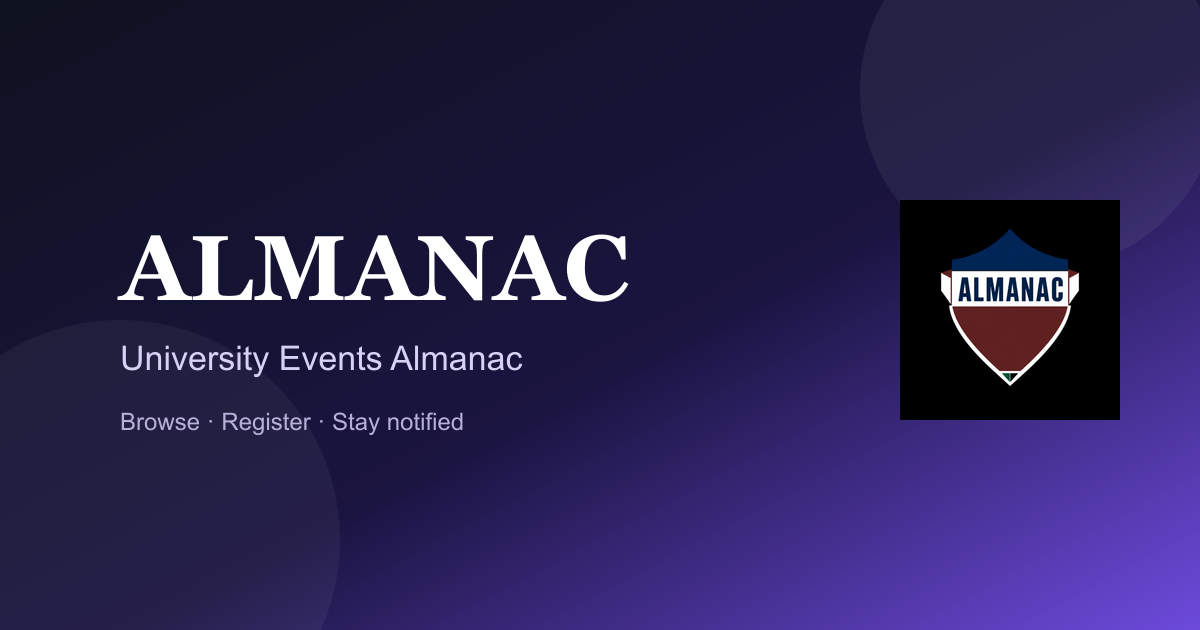
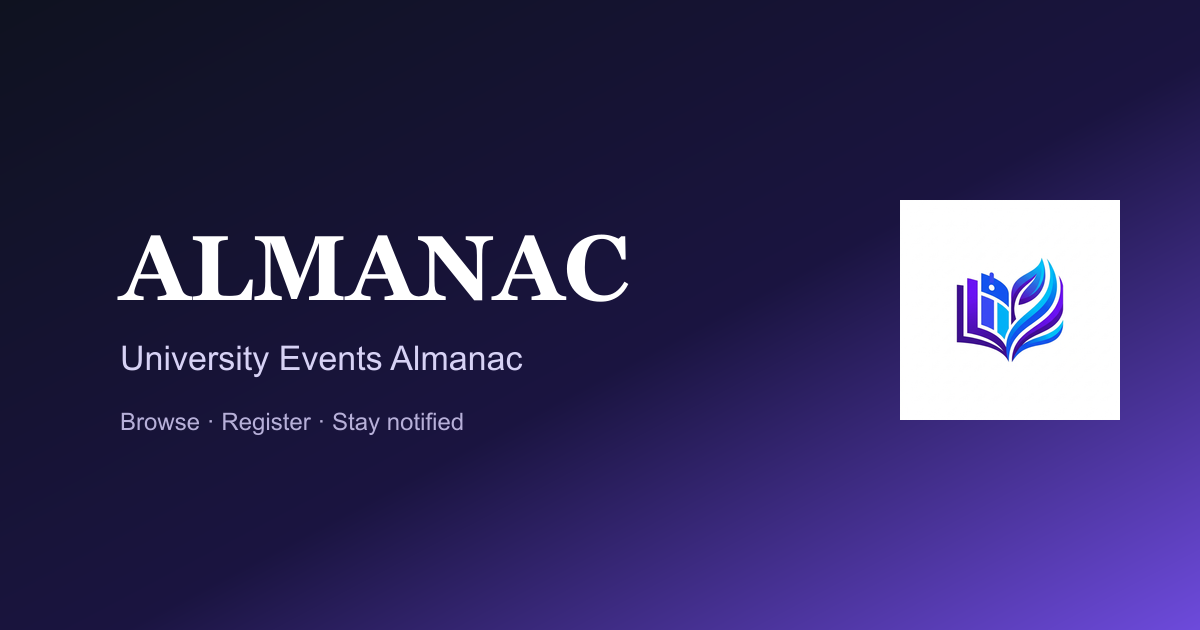
Update branding assets and layout components to enhance visual consistency

Changed region(s): [[0.74, 0.3016, 0.9558, 0.6937]]

diff --git a/components/dashboard/AlmanacDisplayCard.tsx b/components/dashboard/AlmanacDisplayCard.tsx
@@ -1,4 +1,4 @@
-import { CalendarDays, Download, Eye } from "lucide-react";
+import { CalendarDays, Download, Eye, FileText } from "lucide-react";
 import { Card, CardContent } from "@/components/ui/card";
 import { Button } from "@/components/ui/button";
 import type { SerializedAlmanac } from "@/lib/serializers";
@@ -7,38 +7,19 @@ interface AlmanacDisplayCardProps {
   almanac: SerializedAlmanac | null;
 }
 
-function CrestMark({ className = "w-28 h-28" }: { className?: string }) {
-  return (
-    <div className={`relative ${className}`}>
-      <div className="absolute inset-0 bg-primary/15 blur-2xl rounded-full" />
-      {/* eslint-disable-next-line @next/next/no-img-element */}
-      <img
-        src="/logo.png"
-        alt="ALMANAC"
-        className="relative w-full h-full object-contain drop-shadow-xl rounded-xl ring-1 ring-black/10 bg-black"
-      />
-    </div>
-  );
-}
-
 export default function AlmanacDisplayCard({ almanac }: AlmanacDisplayCardProps) {
   if (!almanac) {
     return (
       <Card className="overflow-hidden border border-dashed">
         <CardContent className="p-6 sm:p-8">
-          <div className="flex flex-col sm:flex-row sm:items-center gap-5">
-            <CrestMark className="w-20 h-20 sm:w-24 sm:h-24 opacity-80" />
-            <div className="min-w-0">
-              <div className="inline-flex items-center gap-1.5 px-3 py-1 rounded-full bg-muted text-muted-foreground text-xs font-semibold mb-3 uppercase tracking-widest">
-                <CalendarDays className="w-3.5 h-3.5" /> Official Calendar
-              </div>
-              <h3 className="text-xl font-bold mb-2">No active almanac yet</h3>
-              <p className="text-muted-foreground max-w-md">
-                Upload an official academic calendar PDF from the admin panel to show
-                it here.
-              </p>
-            </div>
+          <div className="inline-flex items-center gap-1.5 px-3 py-1 rounded-full bg-muted text-muted-foreground text-xs font-semibold mb-4 uppercase tracking-widest">
+            <CalendarDays className="w-3.5 h-3.5" /> Official Calendar
           </div>
+          <h3 className="text-xl font-bold mb-2">No active almanac yet</h3>
+          <p className="text-muted-foreground max-w-md">
+            Upload an official academic calendar PDF from the admin panel to show it
+            here.
+          </p>
         </CardContent>
       </Card>
     );
@@ -83,8 +64,14 @@ export default function AlmanacDisplayCard({ almanac }: AlmanacDisplayCardProps)
               </Button>
             </div>
           </div>
-          <div className="flex p-6 sm:p-8 justify-center items-center">
-            <CrestMark className="w-28 h-28 sm:w-36 sm:h-36" />
+          <div className="hidden sm:flex p-8 justify-center items-center opacity-80">
+            <div className="relative">
+              <div className="absolute inset-0 bg-primary/20 blur-2xl rounded-full" />
+              <FileText
+                className="w-32 h-32 text-primary drop-shadow-xl"
+                strokeWidth={1}
+              />
+            </div>
           </div>
         </div>
       </CardContent>

diff --git a/components/admin/AdminAlmanacUpload.tsx b/components/admin/AdminAlmanacUpload.tsx
@@ -3,7 +3,9 @@
 import { useCallback, useEffect, useState } from "react";
 import { format } from "date-fns";
 import {
+  CalendarRange,
   CheckCircle2,
+  FileText,
   Loader2,
   Trash2,
   Upload,
@@ -135,12 +137,7 @@ export default function AdminAlmanacUpload({ canUpload }: AdminAlmanacUploadProp
           <div className="flex flex-col sm:flex-row justify-between items-start sm:items-center gap-4">
             <div className="min-w-0">
               <CardTitle className="flex items-center gap-2 text-base sm:text-lg">
-                {/* eslint-disable-next-line @next/next/no-img-element */}
-                <img
-                  src="/logo.png"
-                  alt=""
-                  className="w-7 h-7 rounded-md object-contain bg-black ring-1 ring-border flex-shrink-0"
-                />
+                <CalendarRange className="w-5 h-5 text-primary flex-shrink-0" />
                 University Almanac
               </CardTitle>
               <p className="text-sm text-muted-foreground mt-1">
@@ -169,12 +166,7 @@ export default function AdminAlmanacUpload({ canUpload }: AdminAlmanacUploadProp
             </div>
           ) : almanacs.length === 0 ? (
             <div className="py-8 text-center bg-accent/20 rounded-lg border border-dashed">
-              {/* eslint-disable-next-line @next/next/no-img-element */}
-              <img
-                src="/logo.png"
-                alt=""
-                className="w-12 h-12 mx-auto mb-3 object-contain rounded-lg bg-black ring-1 ring-border opacity-80"
-              />
+              <FileText className="w-8 h-8 text-muted-foreground/50 mx-auto mb-2" />
               <p className="text-sm text-muted-foreground">No almanacs uploaded yet.</p>
             </div>
           ) : (
@@ -190,18 +182,13 @@ export default function AdminAlmanacUpload({ canUpload }: AdminAlmanacUploadProp
                 >
                   <div className="flex items-start gap-3 min-w-0">
                     <div
-                      className={`rounded-md flex-shrink-0 overflow-hidden ring-1 ring-black/10 ${
-                        almanac.is_active ? "bg-black" : "bg-muted"
+                      className={`p-2 rounded-md flex-shrink-0 ${
+                        almanac.is_active
+                          ? "bg-primary text-primary-foreground"
+                          : "bg-muted text-muted-foreground"
                       }`}
                     >
-                      {/* eslint-disable-next-line @next/next/no-img-element */}
-                      <img
-                        src="/logo.png"
-                        alt=""
-                        className={`w-10 h-10 object-contain ${
-                          almanac.is_active ? "" : "opacity-70 grayscale"
-                        }`}
-                      />
+                      <FileText className="w-5 h-5" />
                     </div>
                     <div className="min-w-0">
                       <h4 className="font-medium text-sm flex flex-wrap items-center gap-2">

diff --git a/components/layout/Sidebar.tsx b/components/layout/Sidebar.tsx
@@ -54,12 +54,12 @@ const adminNav = [
 function BrandMark({ compact = false }: { compact?: boolean }) {
   return (
     <div className="flex items-center gap-2.5 min-w-0">
-      <div className="w-10 h-10 sm:w-11 sm:h-11 rounded-lg flex items-center justify-center flex-shrink-0 overflow-hidden bg-black ring-1 ring-white/10">
+      <div className="w-9 h-9 sm:w-10 sm:h-10 rounded-xl flex items-center justify-center flex-shrink-0 overflow-hidden bg-white/95 ring-1 ring-white/20">
         {/* eslint-disable-next-line @next/next/no-img-element */}
         <img
           src="/logo.png"
           alt="Almanac"
-          className="w-full h-full object-contain"
+          className="w-full h-full object-contain p-0.5"
         />
       </div>
       {!compact && (
@@ -179,12 +179,12 @@ export default function Sidebar() {
       >
         <div className="h-14 px-3 flex items-center justify-between gap-3">
           <Link href="/" className="flex items-center gap-2.5 min-w-0">
-            <div className="w-10 h-10 rounded-lg flex-shrink-0 overflow-hidden bg-black ring-1 ring-border/80">
+            <div className="w-9 h-9 rounded-xl flex-shrink-0 overflow-hidden bg-white ring-1 ring-border/60 shadow-sm">
               {/* eslint-disable-next-line @next/next/no-img-element */}
               <img
                 src="/logo.png"
                 alt="Almanac"
-                className="w-full h-full object-contain"
+                className="w-full h-full object-contain p-0.5"
               />
             </div>
             <div className="min-w-0">

diff --git a/components/AuthLayout.tsx b/components/AuthLayout.tsx
@@ -1,7 +1,7 @@
 import type { LucideIcon } from "lucide-react";
 
 interface AuthLayoutProps {
-  icon?: LucideIcon;
+  icon: LucideIcon;
   title: string;
   subtitle?: string;
   footer?: React.ReactNode;
@@ -19,19 +19,17 @@ export default function AuthLayout({
     <div className="min-h-screen flex items-center justify-center bg-background px-4 py-8 overflow-x-clip">
       <div className="w-full max-w-md">
         <div className="text-center mb-8 sm:mb-10">
-          <div className="inline-flex items-center justify-center w-16 h-16 rounded-2xl bg-black ring-1 ring-border mb-4 overflow-hidden shadow-sm">
+          <div className="inline-flex items-center justify-center w-14 h-14 rounded-2xl bg-white ring-1 ring-border mb-4 overflow-hidden shadow-sm">
             {/* eslint-disable-next-line @next/next/no-img-element */}
             <img
               src="/logo.png"
               alt="Almanac"
-              className="w-full h-full object-contain"
+              className="w-full h-full object-contain p-1.5"
             />
           </div>
-          {Icon && (
-            <span className="sr-only">
-              <Icon aria-hidden="true" />
-            </span>
-          )}
+          <span className="sr-only">
+            <Icon aria-hidden="true" />
+          </span>
           <h1 className="text-2xl sm:text-3xl font-bold tracking-tight text-foreground break-words">
             {title}
           </h1>

diff --git a/app/layout.tsx b/app/layout.tsx
@@ -72,7 +72,7 @@ export const metadata: Metadata = {
         url: "/logo.png",
         width: 512,
         height: 512,
-        alt: "ALMANAC crest",
+        alt: "ALMANAC",
       },
     ],
   },
